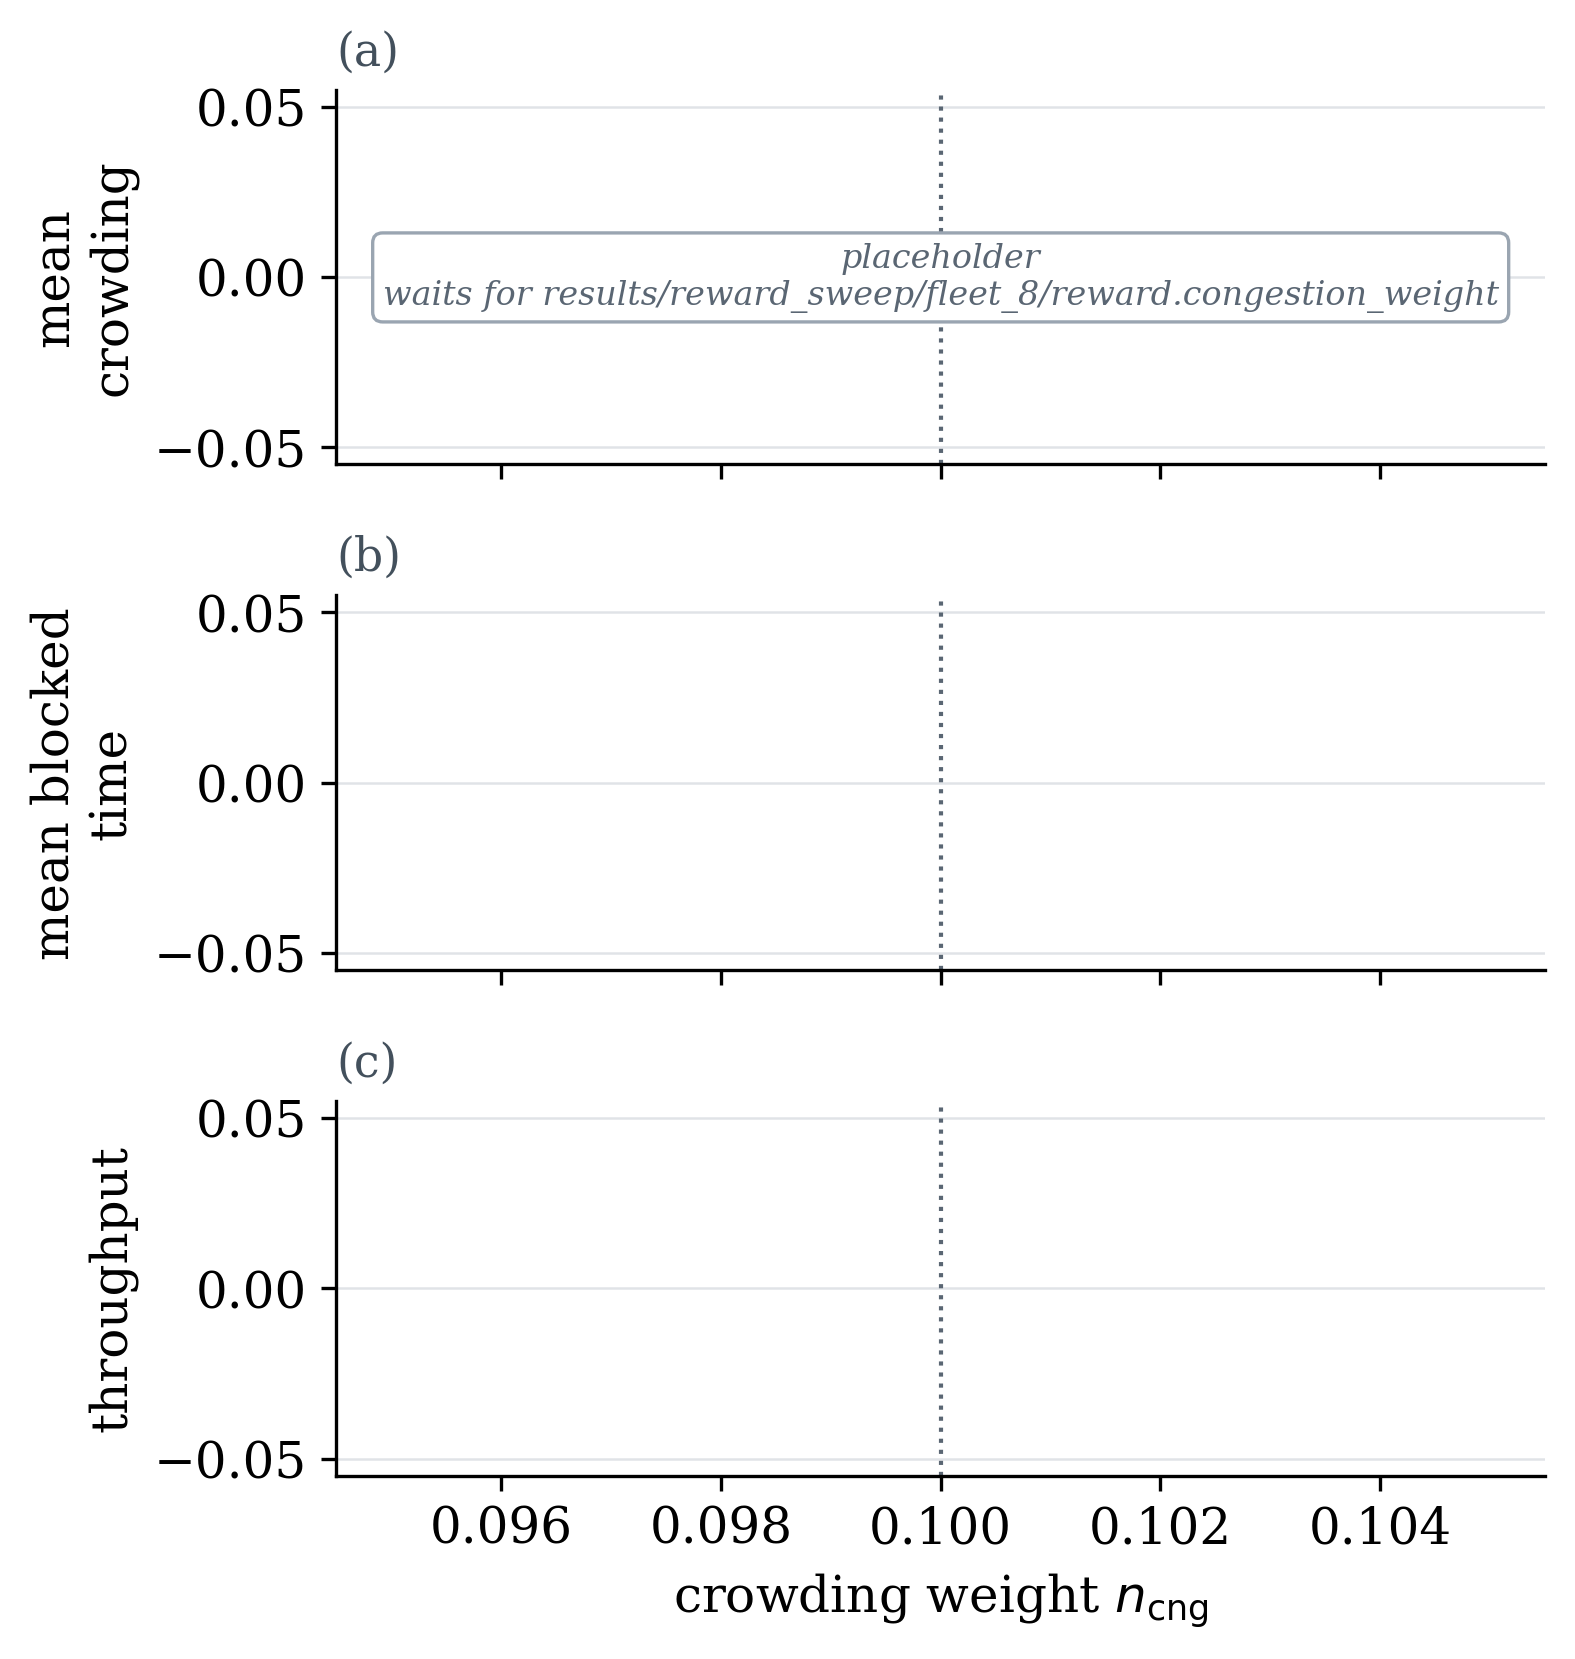
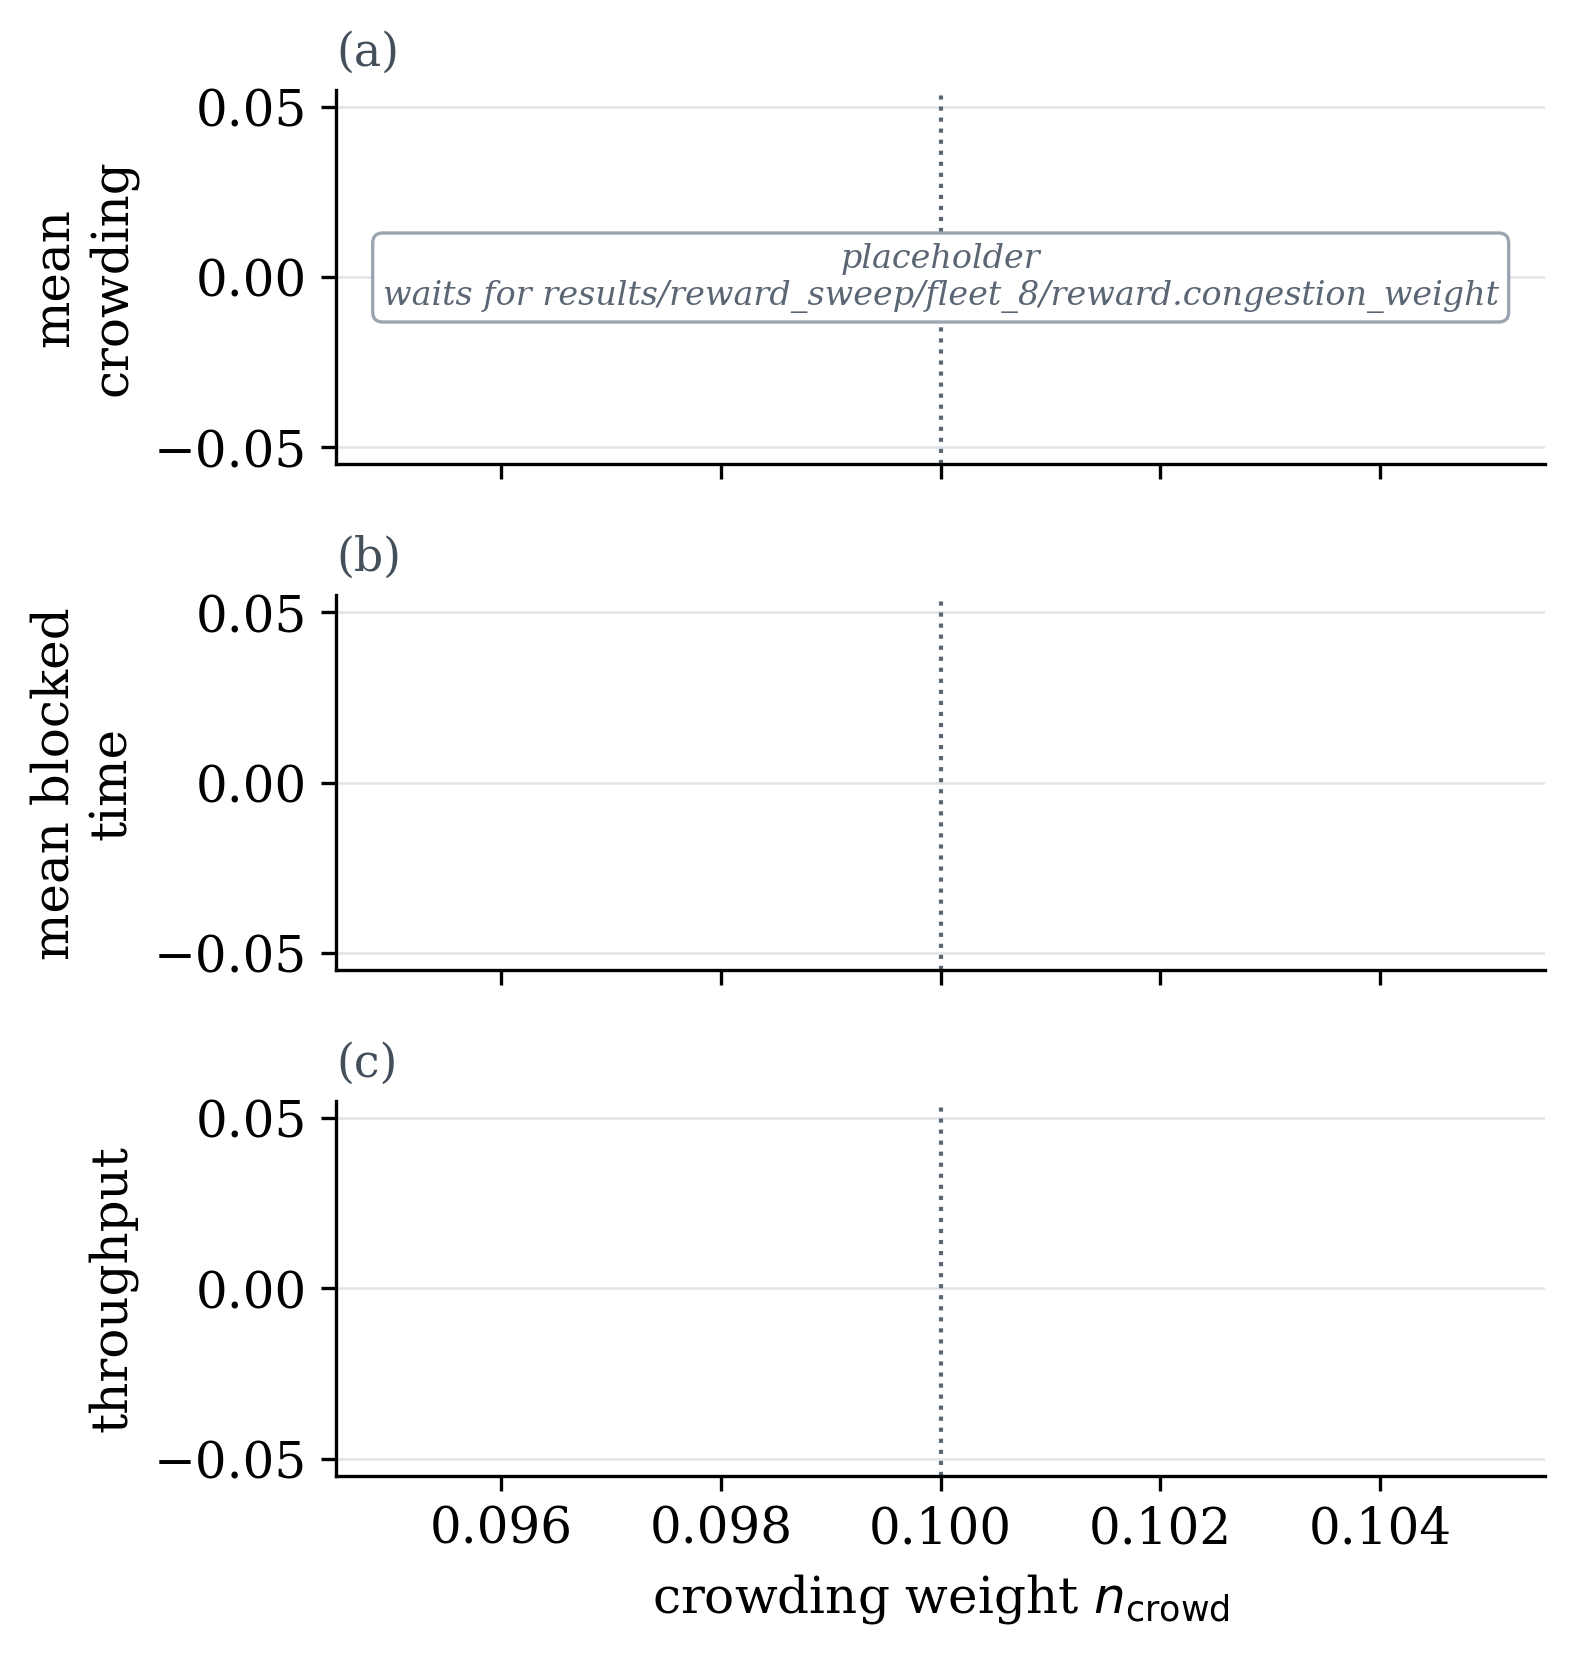
[A93] Crowding term and n_crowd for the reward's last term
The reward term that charges the crowding feature is the crowding term, and its
weight is n_crowd (was n_cng, which looked like F_cng). appendix_controllers.py
labels the axis of app_reward_cng.png with it, still a placeholder until the
reward sweep runs. GAPS.md [A93] records the rename.

diff --git a/scripts/images/appendix_controllers.py b/scripts/images/appendix_controllers.py
@@ -61,7 +61,7 @@ def reward_terms(fleet=8, last=0.1):
 
 
 def reward_cng():
-    """The crowding weight n_cng in {0, 0.1, 1, 2} on the 8-agent warehouse: (a) the mean
+    """The crowding weight n_crowd in {0, 0.1, 1, 2} on the 8-agent warehouse: (a) the mean
     crowding, (b) the mean blocked time, (c) the throughput, one line per learned arm. Choose
     the smallest weight that lowers blocked time without lowering throughput."""
     parameter = "reward.congestion_weight"
@@ -86,7 +86,7 @@ def reward_cng():
         ax.axvline(0.1, color=C["node"], ls=":", lw=1)
         panel_title(ax, f"({panel})")
         style(ax)
-    axes[-1].set_xlabel(r"crowding weight $n_{\mathrm{cng}}$")
+    axes[-1].set_xlabel(r"crowding weight $n_{\mathrm{crowd}}$")
     if rows:
         axes[0].legend(frameon=False, fontsize=9)
     else:

diff --git a/decisions/GAPS.md b/decisions/GAPS.md
@@ -2431,7 +2431,10 @@ wrong under [A32] are marked.
   the box diagram of `loop.tex`, which repeated the Introduction and `fig:methodloop` and never
   showed standing still. `K` is renamed the *blocking cost*, because since [A93] it charges blocking,
   not crowding (it was the crowding cost, and the congestion term in the Background). `\delta_i(t)`
-  is the *crowding feature* everywhere (it was also the congestion feature and the crowding number).
+  is the *crowding feature* everywhere (it was also the congestion feature and the crowding number),
+  and the reward's last term, which charges it, is the *crowding term* (was the congestion term).
+  Its weight is `n_{\mathrm{crowd}}` (was `n_{\mathrm{cng}}`, which looked like `F_{\mathrm{cng}}`). The
+  code keeps its own name for the weight.
   Storage reads standing still and not the crowding feature, because a crowd that keeps moving costs
   no time. A storage rule on `\delta` itself was not run. Review:
   `active/readability_review/review_loop_figure.pdf` (v3).
